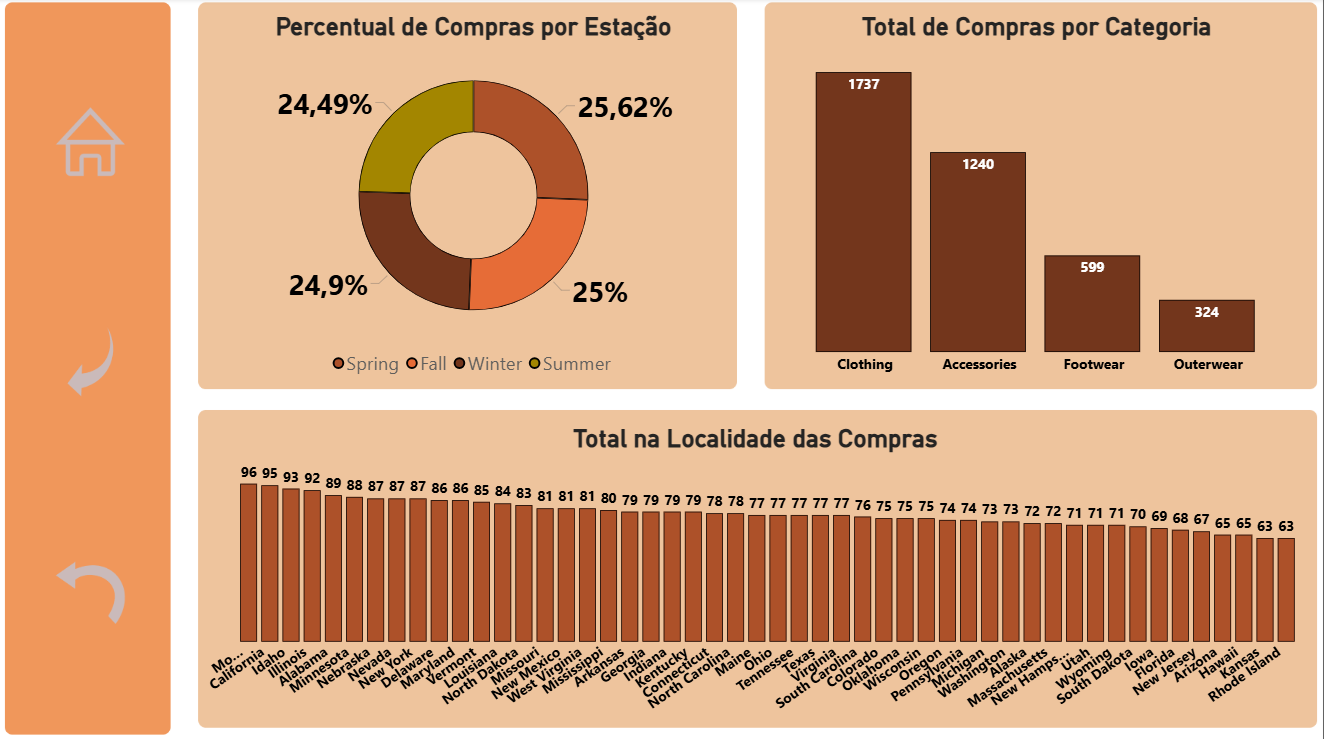
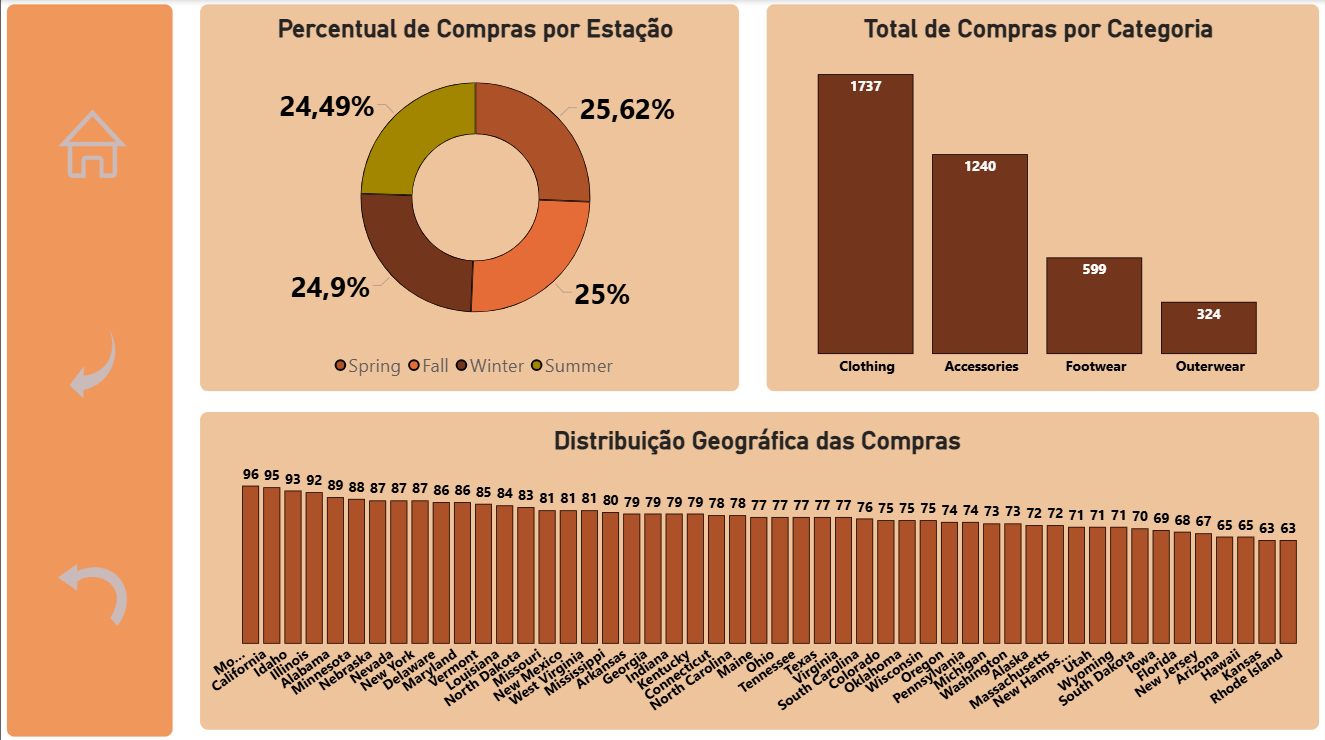
análise gráfico 3 imagem 3 com adição da imagem 4

diff --git a/Apresentacao.md b/Apresentacao.md
@@ -186,3 +186,34 @@ Os tipos **express (646)** e **envio em 2 dias (627)** foram os menos utilizados
 
 De forma geral, o gráfico revela um **equilíbrio na utilização dos tipos de envio**, o que reforça a **diversidade de opções disponíveis na plataforma**.  
 Esse equilíbrio indica que os clientes **valorizam tanto a economia quanto a flexibilidade de escolha**, permitindo à empresa **ajustar suas políticas logísticas** para atender a diferentes perfis de consumo e preferências de entrega.
+
+### Contagem de Clientes por Compras Anteriores
+
+O **gráfico de contagem de clientes por compras anteriores** apresenta **variações constantes na quantidade de consumidores que retornam à plataforma para novas aquisições**.  
+Observa-se que os valores **oscilam entre 58 e 97 clientes**, demonstrando **uma base de consumidores recorrentes**, porém com **comportamento de recompra irregular**.  
+
+O **maior pico ocorre próximo a 30 compras anteriores**, com **97 clientes**, enquanto o **menor valor aparece em torno de 50 compras anteriores**, com **58 clientes**.  
+Essa variação sugere que, embora exista **um grupo fiel de consumidores que realiza compras de forma recorrente**, há também **flutuações significativas** que podem estar associadas a fatores como **campanhas promocionais**, **sazonalidade** ou **mudanças nas condições de compra**.  
+
+As **quedas acentuadas entre determinados pontos** evidenciam **possíveis perdas de clientes ao longo do tempo**, indicando a necessidade de **estratégias voltadas à retenção e fidelização**, como:  
+
+* **Programas de benefícios e recompensas**;  
+* **Descontos progressivos**;  
+* **Comunicação personalizada e segmentada**.  
+
+De forma geral, o gráfico mostra **uma base de clientes com bom potencial de fidelização**, mas que ainda requer **ações consistentes para estabilizar e ampliar o número de consumidores recorrentes**.  
+
+
+A **quarta e última página do dashboard** encerra a análise sobre o **comportamento de compra dos clientes**, apresentando uma visão consolidada dos **percentuais de compras por estação do ano**, **total de compra por categoria** e **distribuição geográfica das compras**.  
+
+Esses indicadores possibilitam compreender **como as estações influenciam o comportamento de consumo**, **quais categorias de produtos se destacam nas preferências dos clientes** e **quais localidades concentram o maior volume de compras**, oferecendo **subsídios valiosos para estratégias de marketing sazonais** e **decisões de estoque mais assertivas**.  
+
+
+
+<div align="center">
+
+<img src="imagens\imagem4.png.png" alt="Dashboard Power BI – Página 4: Percentuais de compras por estação do ano, totais de compras por categoria e distribuição geográfica das compras" width="800px" style="border-radius:10px; box-shadow:0px 0px 10px rgba(0,0,0,0.15);" />
+
+<p><i>Figura 4 – Quarta página do Dashboard Power BI com gráficos de percentual de compras por estação do ano, total de compra por categoria e distribuição geográfica das compras.</i></p>
+
+</div>
